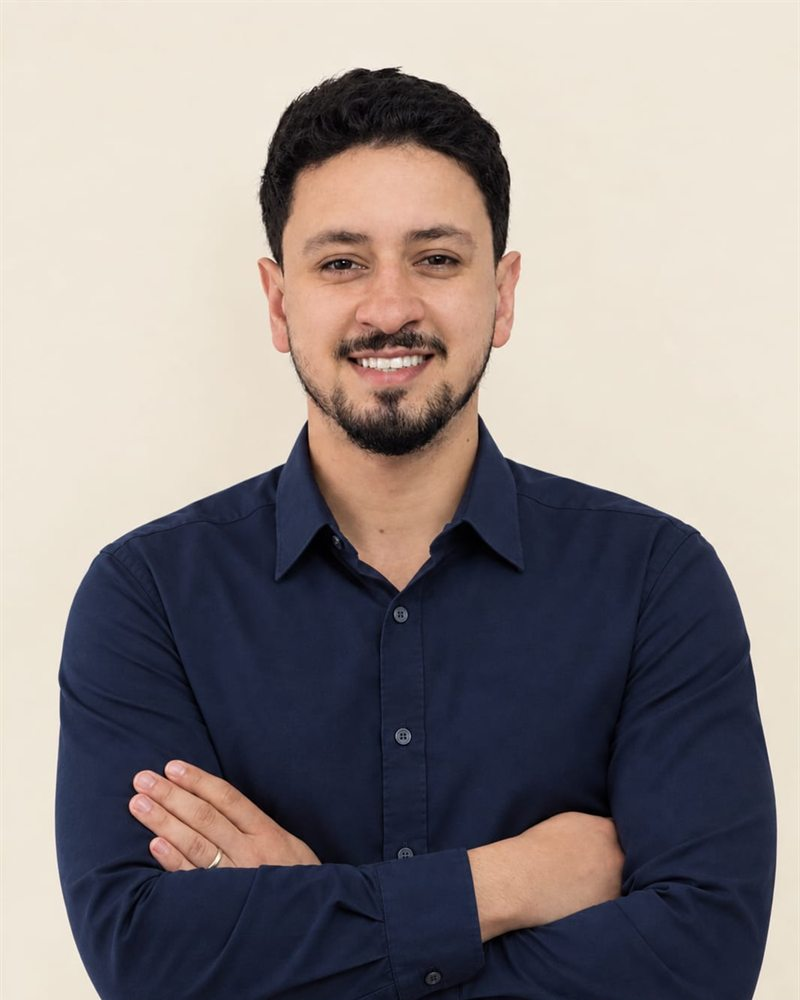
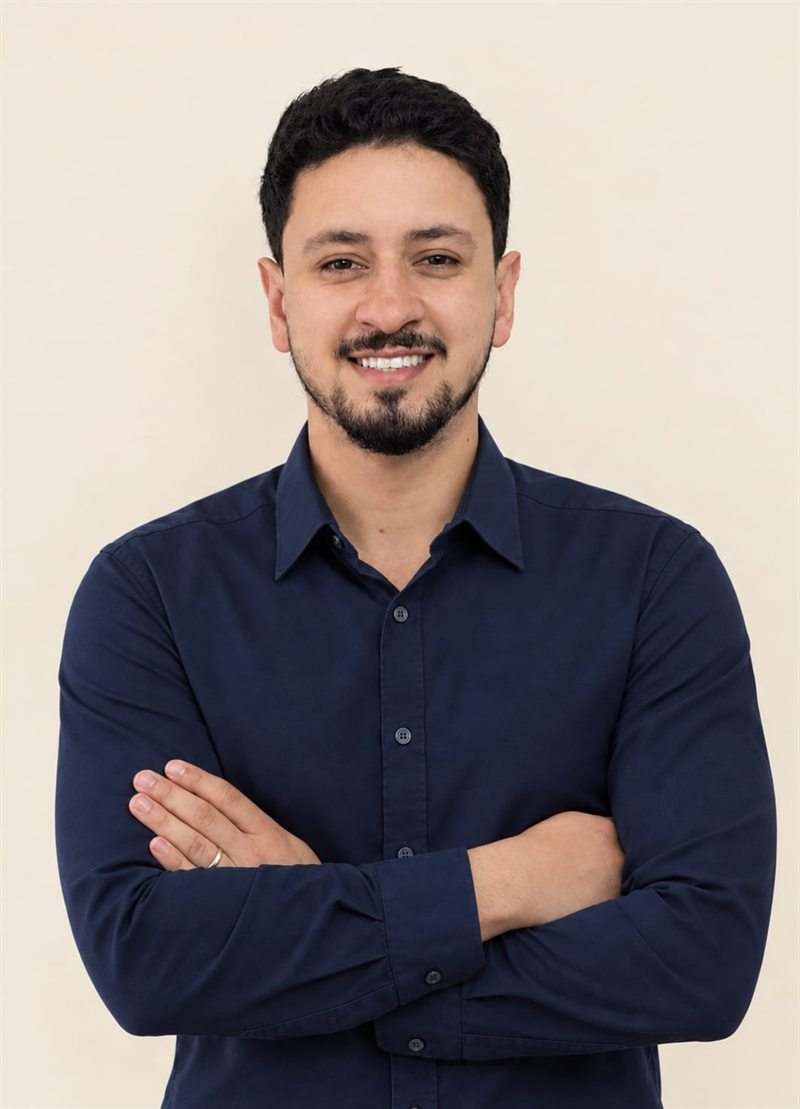
portfolio: foto inteira na secao Sobre e novo texto de apresentacao

diff --git a/index.html b/index.html
@@ -150,8 +150,8 @@ body{margin:0;background:var(--bg)}
 
 /* SOBRE */
 .about{display:grid;grid-template-columns:1fr;background:var(--card);border:1px solid var(--line);border-radius:34px;overflow:hidden;box-shadow:var(--sh);position:relative;z-index:2}
-.about .ph{position:relative;background:#efe7d8;height:380px;overflow:hidden}
-.about .ph img{width:100%;height:100%;object-fit:cover;object-position:50% 12%}
+.about .ph{position:relative;background:#efe7d8;overflow:hidden}
+.about .ph img{width:100%;height:auto;display:block}
 .about .tx{padding:28px 24px 30px}
 .about h2{font-size:clamp(30px,8vw,46px);margin:10px 0 0}
 .about p.lead{margin-top:14px}
@@ -237,7 +237,6 @@ body{margin:0;background:var(--bg)}
   .steps{grid-template-columns:repeat(3,1fr);gap:28px;border-top:0;margin-top:44px}
   .step{grid-template-columns:1fr;border:1px solid var(--line);border-radius:26px;padding:28px 26px;background:var(--card);gap:16px}
   .about{grid-template-columns:.85fr 1.15fr;border-radius:40px}
-  .about .ph{height:auto;min-height:480px}
   .about .tx{padding:56px 52px;align-self:center}
   .about .ctas .btn{flex:0 0 auto}
   .cta{padding:72px 40px;border-radius:44px}
@@ -330,11 +329,12 @@ body{margin:0;background:var(--bg)}
   <!-- SOBRE -->
   <section class="sec" id="sobre" style="padding-top:8px"><div class="wrap">
     <div class="about rev">
-      <div class="ph"><img src="assets/pablo.jpg" width="800" height="1000" loading="lazy" alt="Pablo Luz"></div>
+      <div class="ph"><img src="assets/pablo.jpg" width="800" height="1110" loading="lazy" alt="Pablo Luz"></div>
       <div class="tx">
         <div class="eyebrow">Sobre</div>
         <h2>Oi, eu sou o Pablo.</h2>
-        <p class="lead">Sou de Cruz Alta, RS. Crio sites, painéis e automações sob medida — e só entrego quando você vê funcionando.</p>
+        <p class="lead">Minha experiência é resolver problemas. Construo relatórios, sugestões, análises mais complexas, projeções e orçamentos.</p>
+        <p class="lead">Com mais de 3 anos como analista de pós-vendas, meu ponto forte é criar coisas diferentes e inovadoras, que fogem da mesmice do mercado e alavancam projetos.</p>
         <div class="ctas">
           <a class="btn btn-p" href="https://wa.me/5555992091409?text=Oi%20Pablo!%20Vi%20o%20seu%20site%20e%20quero%20conversar." target="_blank" rel="noopener">Falar comigo</a>
         </div>
